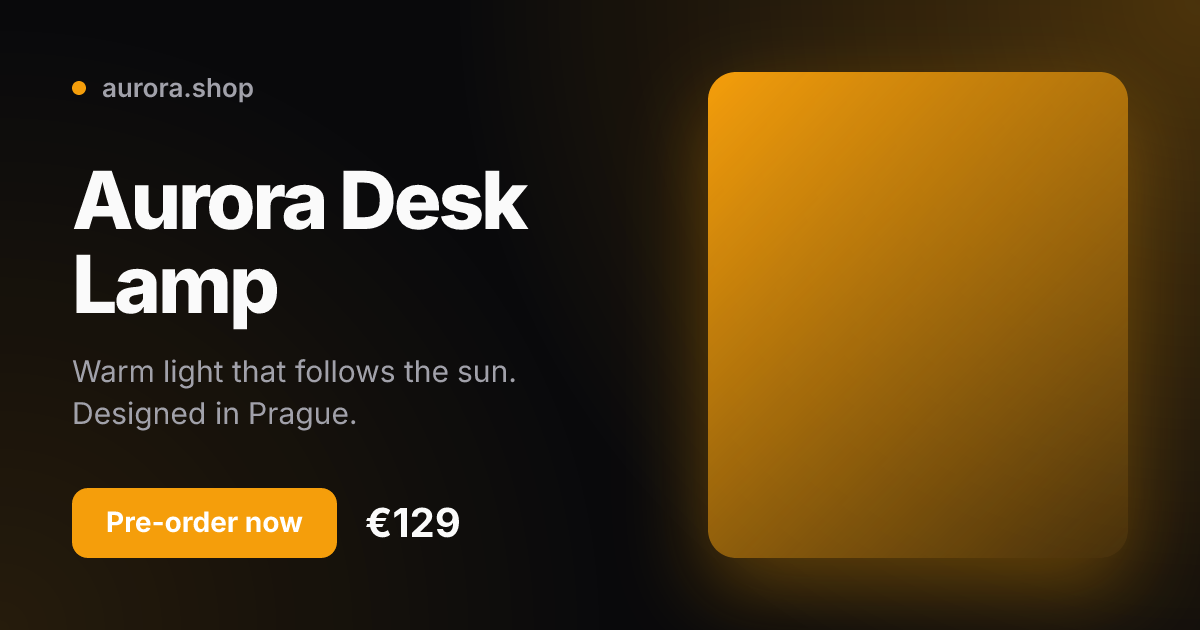
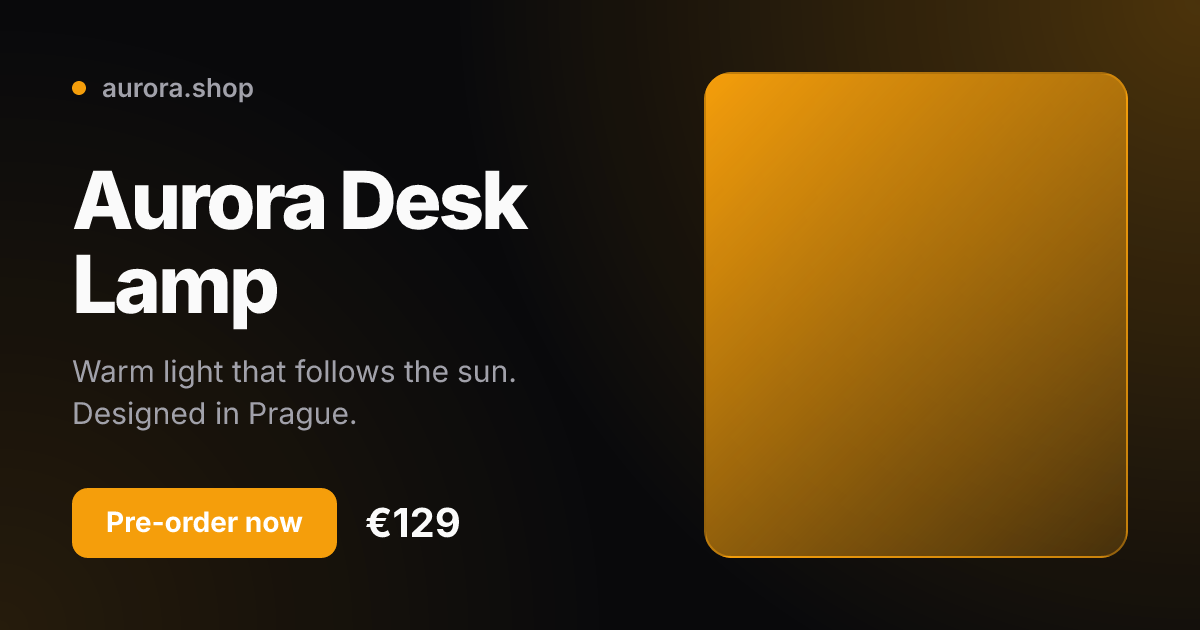
perf: render the product template 30x faster

Changed region(s): [[0.555, 0.1206, 0.9558, 0.9952], [0.6167, 0.0905, 0.8017, 0.1206]]

diff --git a/src/og/templates/product.tsx b/src/og/templates/product.tsx
@@ -87,8 +87,7 @@ export const product = defineTemplate({
                 width: 420,
                 borderRadius: 28,
                 overflow: 'hidden',
-                border: `1px solid ${palette.border}`,
-                boxShadow: `0 30px 80px ${alpha(p.accent, 0.35)}`,
+                border: `2px solid ${alpha(p.accent, 0.45)}`,
               }}
             >
               <img src={p.image} width={420} height={486} style={{ objectFit: 'cover' }} />
@@ -100,7 +99,7 @@ export const product = defineTemplate({
                 width: 420,
                 borderRadius: 28,
                 backgroundImage: `linear-gradient(135deg, ${p.accent} 0%, ${alpha(p.accent, 0.2)} 100%)`,
-                boxShadow: `0 30px 80px ${alpha(p.accent, 0.35)}`,
+                border: `2px solid ${alpha(p.accent, 0.45)}`,
               }}
             />
           )}

diff --git a/README.md b/README.md
@@ -39,7 +39,7 @@ Every page you publish needs a social card, and plenty of apps need screenshots.
 
 cardshot is one small service you run yourself:
 
-- **`/og`** renders social cards from templates in ~50 ms, using [Satori](https://github.com/vercel/satori) and [resvg](https://github.com/yisibl/resvg-js). No browser involved.
+- **`/og`** renders social cards from templates in about 60 ms, using [Satori](https://github.com/vercel/satori) and [resvg](https://github.com/yisibl/resvg-js). No browser involved.
 - **`/shot`** takes real browser screenshots with Chromium: viewport, full page or a single element, light or dark.
 - **Signed URLs** so nobody else can use your instance.
 - **Disk cache** with ETags, so each image is rendered once.
